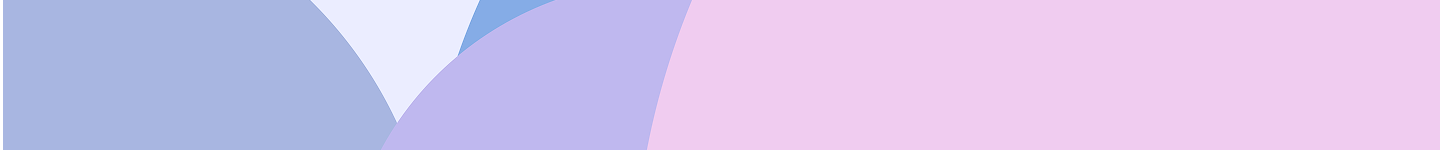
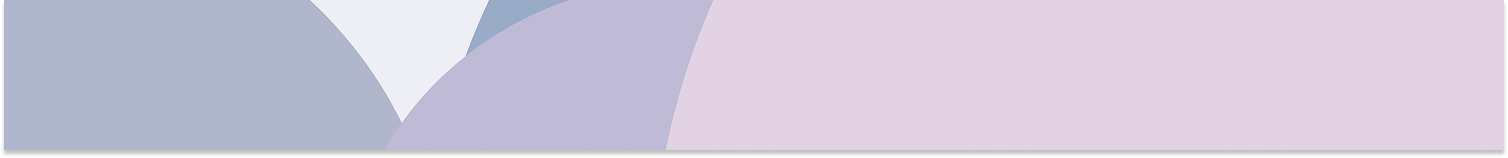
header all

Changed region(s): [[0.0, 0.0, 1.0, 1.0], [0.1875, 0.0, 0.4062, 0.8]]

diff --git a/booking.css b/booking.css
@@ -31,7 +31,10 @@ body {
 }
 
 header {
-  background-color: #b6a6ca;
+  background: url(./Images/header.png);
+  background-position: 0 0;
+  background-size: cover;
+  background-repeat: no-repeat;
   height: 150px;
   font-family: Lorinda Shadow, Verdana, Geneva, Tahoma, sans-serif;
   font-size: 40px;

diff --git a/facilities.css b/facilities.css
@@ -24,7 +24,10 @@ body {
 }
 
 header {
-  background-color: #b6a6ca;
+  background: url(./Images/header.png);
+  background-position: 0 0;
+  background-size: cover;
+  background-repeat: no-repeat;
   height: 150px;
   font-family: Lorinda Shadow, Verdana, Geneva, Tahoma, sans-serif;
   font-size: 40px;

diff --git a/feedback.css b/feedback.css
@@ -25,7 +25,10 @@ body {
 }
 
 header {
-  background-color: #b6a6ca;
+  background: url(./Images/header.png);
+  background-position: 0 0;
+  background-size: cover;
+  background-repeat: no-repeat;
   height: 150px;
   font-family: Lorinda Shadow, Verdana, Geneva, Tahoma, sans-serif;
   font-size: 40px;

diff --git a/gallery.css b/gallery.css
@@ -24,7 +24,10 @@ body {
 }
 
 header {
-  background-color: #b6a6ca;
+  background: url(./Images/header.png);
+  background-position: 0 0;
+  background-size: cover;
+  background-repeat: no-repeat;
   height: 150px;
   font-family: Lorinda Shadow, Verdana, Geneva, Tahoma, sans-serif;
   font-size: 40px;
